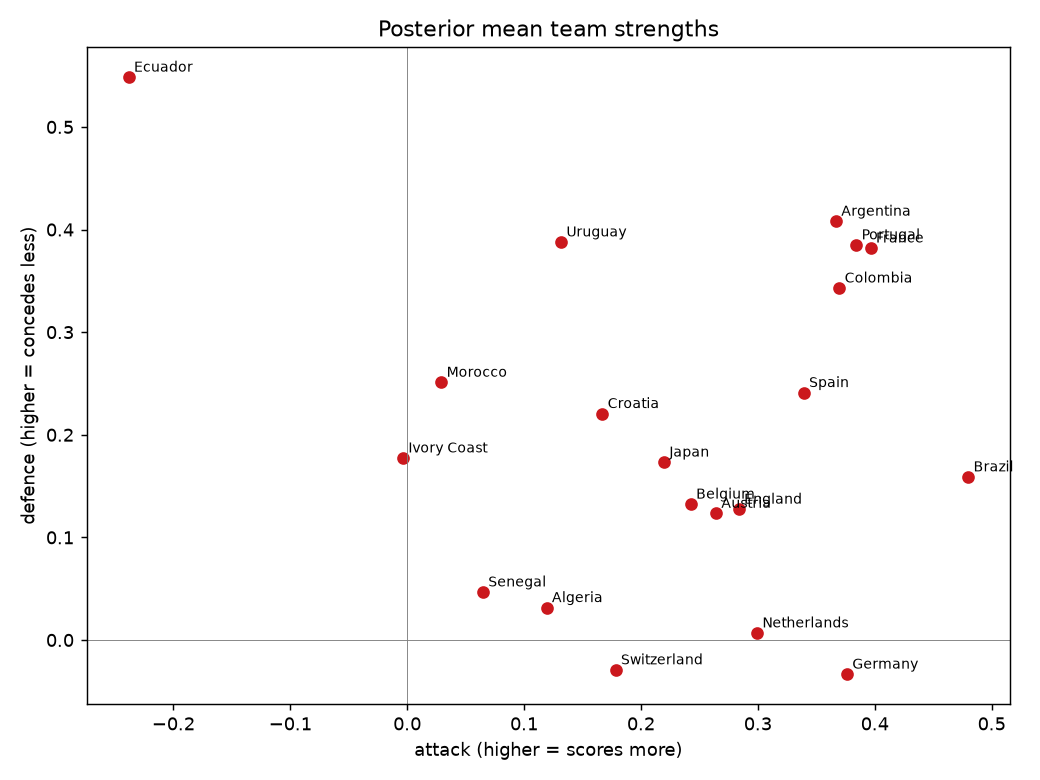
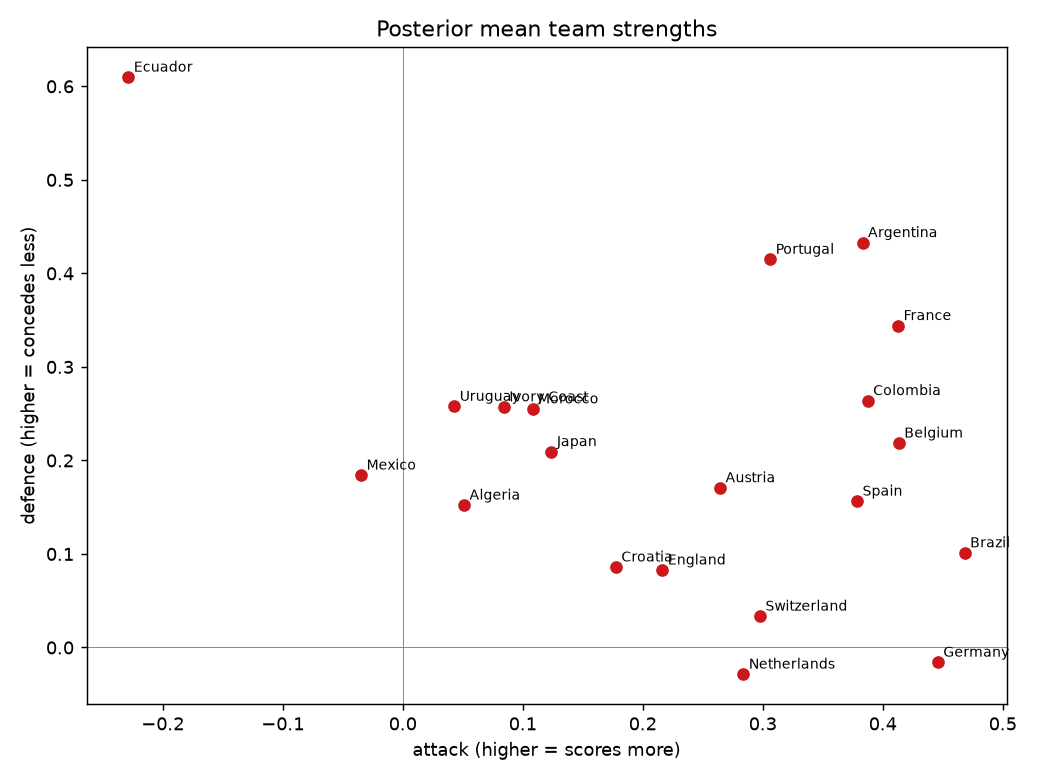
Add recency-weighted likelihood; measure it on the scoreboard
- bayesian_score: recency_weights() (mean-normalized time decay) + weighted
  Poisson likelihood via Potential; fit() weights pass-through
- stage 19 now scores a Bayesian+recency variant -> small consistent RPS gain
  on full tournaments (2018 -0.0021, 2022 -0.0008), neutral on tiny 2026 sample
- stage 06 enables recency weighting (18-month half-life) for the live fit;
  Mexico's defence rating rises with its recent clean sheets
- recency-weights test; EVALUATION.md / tracker refreshed

diff --git a/src/wc2026/models/bayesian_score.py b/src/wc2026/models/bayesian_score.py
@@ -56,12 +56,30 @@ class FitResult:
     team_to_idx: dict[str, int]
 
 
+def recency_weights(dates, asof, half_life_days: float = 540.0) -> np.ndarray:
+    """Exponential time-decay weights (mean-normalized to 1).
+
+    Recent matches count more; mean-normalizing keeps the *total* likelihood
+    mass the same, so this re-weights toward current form rather than just
+    shrinking everything. half_life_days=540 ≈ 18 months.
+    """
+    age = (pd.Timestamp(asof) - pd.to_datetime(pd.Series(list(dates)))).dt.days
+    age = age.clip(lower=0).to_numpy()
+    w = 0.5 ** (age / half_life_days)
+    return w * (len(w) / w.sum())
+
+
 def build_model(
     matches: pd.DataFrame,
     teams: list[str],
     prior_strength: np.ndarray | None = None,
+    weights: np.ndarray | None = None,
 ) -> pm.Model:
-    """Construct the PyMC model. ``matches`` needs home/away team + goals."""
+    """Construct the PyMC model. ``matches`` needs home/away team + goals.
+
+    If ``weights`` (one per match) is given, the Poisson likelihood is
+    weighted — used for recency weighting (down-weight stale matches).
+    """
     team_to_idx = {t: i for i, t in enumerate(teams)}
     n_teams = len(teams)
 
@@ -106,10 +124,19 @@ def build_model(
         log_lambda_home = intercept + home_adv + att_eff[h_idx] - deff[a_idx]
         log_lambda_away = intercept + att_eff[a_idx] - deff[h_idx]
 
-        pm.Poisson("home_goals", mu=pm.math.exp(log_lambda_home),
-                   observed=hg, dims="match")
-        pm.Poisson("away_goals", mu=pm.math.exp(log_lambda_away),
-                   observed=ag, dims="match")
+        if weights is None:
+            pm.Poisson("home_goals", mu=pm.math.exp(log_lambda_home),
+                       observed=hg, dims="match")
+            pm.Poisson("away_goals", mu=pm.math.exp(log_lambda_away),
+                       observed=ag, dims="match")
+        else:
+            # Weighted likelihood: scale each match's log-prob by its recency
+            # weight (via Potential, since pm.Poisson takes no per-obs weights).
+            w = pm.Data("obs_weights", np.asarray(weights, float), dims="match")
+            lp_h = pm.logp(pm.Poisson.dist(mu=pm.math.exp(log_lambda_home)), hg)
+            lp_a = pm.logp(pm.Poisson.dist(mu=pm.math.exp(log_lambda_away)), ag)
+            pm.Potential("home_goals_w", pm.math.sum(w * lp_h))
+            pm.Potential("away_goals_w", pm.math.sum(w * lp_a))
 
     return model
 
@@ -122,9 +149,10 @@ def fit(
     tune: int = 1000,
     chains: int = 4,
     target_accept: float = 0.9,
+    weights: np.ndarray | None = None,
 ) -> FitResult:
     """Sample the posterior with NUTS and return inference data."""
-    model = build_model(matches, teams, prior_strength)
+    model = build_model(matches, teams, prior_strength, weights=weights)
     with model:
         idata = pm.sample(
             draws=draws,

diff --git a/scripts/19_evaluate.py b/scripts/19_evaluate.py
@@ -18,7 +18,7 @@ import pymc as pm
 
 from wc2026.config import ROOT, ensure_dirs
 from wc2026.data.sources import download_intl_results
-from wc2026.models.bayesian_score import build_model, predict_match
+from wc2026.models.bayesian_score import build_model, predict_match, recency_weights
 from wc2026.models.elo import BASE_RATING, HFA, _g_multiplier, _k_for, win_probability
 from wc2026.models.metrics import evaluate
 
@@ -63,11 +63,19 @@ def run_year(df: pd.DataFrame, year: int, start: str, end: str):
     elo = generic_elo(train)   # uses home_score/away_score — before the rename
     train_model = train.rename(columns={"home_score": "home_goals",
                                         "away_score": "away_goals"})
-    with build_model(train_model, teams, prior_strength=np.zeros(len(teams))):
-        idata = pm.sample(draws=800, tune=800, chains=2, cores=1,
-                          target_accept=0.9, progressbar=False, random_seed=7)
+    zeros = np.zeros(len(teams))
 
-    model_rows, elo_rows, naive_rows = [], [], []
+    def _fit(weights):
+        with build_model(train_model, teams, prior_strength=zeros, weights=weights):
+            return pm.sample(draws=800, tune=800, chains=2, cores=1,
+                             target_accept=0.9, progressbar=False, random_seed=7)
+
+    idata = _fit(None)
+    # Recency-weighted variant: down-weight stale matches (18-month half-life).
+    w = recency_weights(train_model["date"], cutoff, half_life_days=540)
+    idata_rec = _fit(w)
+
+    model_rows, rec_rows, elo_rows, naive_rows = [], [], [], []
     for m in wc.itertuples():
         h, a = m.home_team, m.away_team
         neutral = bool(getattr(m, "neutral", True))
@@ -75,8 +83,9 @@ def run_year(df: pd.DataFrame, year: int, start: str, end: str):
         result = "H" if gh > ga else "A" if ga > gh else "D"
         actual_total = gh + ga
 
-        p = predict_match(idata, teams, h, a, neutral=neutral)
-        model_rows.append({"p_H": p["p_home_win"], "p_D": p["p_draw"],
+        for src, bucket in ((idata, model_rows), (idata_rec, rec_rows)):
+            p = predict_match(src, teams, h, a, neutral=neutral)
+            bucket.append({"p_H": p["p_home_win"], "p_D": p["p_draw"],
                            "p_A": p["p_away_win"], "result": result,
                            "pred_total": p["exp_goals_home"] + p["exp_goals_away"],
                            "actual_total": actual_total})
@@ -86,7 +95,11 @@ def run_year(df: pd.DataFrame, year: int, start: str, end: str):
                            "result": result})
 
     return {"year": year, "Bayesian": evaluate(model_rows),
+            "Bayesian+recency": evaluate(rec_rows),
             "Elo": evaluate(elo_rows), "Naive": evaluate(naive_rows)}
+
+
+MODELS = ("Bayesian", "Bayesian+recency", "Elo", "Naive")
 
 
 def main() -> None:
@@ -107,11 +120,11 @@ def main() -> None:
 def _console(results) -> str:
     lines = []
     for r in results:
-        lines.append(f"[{r['year']}] n={r['Bayesian']['n']}  "
-                     f"RPS  Bayes {r['Bayesian']['RPS']} | Elo {r['Elo']['RPS']} | "
-                     f"Naive {r['Naive']['RPS']}   "
-                     f"(hit {r['Bayesian']['hit_rate']}/{r['Elo']['hit_rate']}/"
-                     f"{r['Naive']['hit_rate']})")
+        d = r["Bayesian+recency"]["RPS"] - r["Bayesian"]["RPS"]
+        lines.append(f"[{r['year']}] n={r['Bayesian']['n']}  RPS  "
+                     f"Bayes {r['Bayesian']['RPS']} | +recency "
+                     f"{r['Bayesian+recency']['RPS']} ({d:+.4f}) | "
+                     f"Elo {r['Elo']['RPS']} | Naive {r['Naive']['RPS']}")
     return "\n".join(lines)
 
 
@@ -128,7 +141,7 @@ def _render(results) -> str:
         L.append(f"## {r['year']} World Cup  (n={r['Bayesian']['n']} matches)\n")
         L.append("| Model | RPS ↓ | log-loss ↓ | Brier ↓ | hit-rate ↑ | goals MAE ↓ |")
         L.append("|---|---|---|---|---|---|")
-        for name in ("Bayesian", "Elo", "Naive"):
+        for name in MODELS:
             m = r[name]
             L.append(f"| {name} | {m['RPS']} | {m['log_loss']} | {m['Brier']} | "
                      f"{m['hit_rate']} | {m.get('goals_MAE', '—')} |")

diff --git a/tests/test_smoke.py b/tests/test_smoke.py
@@ -260,6 +260,18 @@ def test_llm_extract_fallback():
     assert abs(momentum_from_features(f)) <= 0.10
 
 
+def test_recency_weights():
+    """Recent matches weigh more; weights mean-normalize to 1."""
+    import numpy as np
+
+    from wc2026.models.bayesian_score import recency_weights
+
+    dates = ["2022-01-01", "2024-01-01", "2026-06-01"]
+    w = recency_weights(dates, asof="2026-06-19", half_life_days=540)
+    assert w[2] > w[1] > w[0]            # newest heaviest
+    assert abs(w.mean() - 1.0) < 1e-9    # mean-normalized
+
+
 def test_metrics():
     """Proper scoring rules behave: confident-correct beats confident-wrong."""
     from wc2026.models.metrics import evaluate, log_loss, predicted_result, rps

diff --git a/scripts/06_fit_real.py b/scripts/06_fit_real.py
@@ -29,8 +29,13 @@ def main() -> None:
     prior = (team_feat.set_index("team")["prior_strength"]
              .reindex(teams).fillna(0.0).to_numpy())
 
-    print("Sampling posterior on real data (NUTS)...")
-    result = fit(matches, teams, prior_strength=prior, draws=1000, tune=1000, chains=4)
+    # Recency weighting: recent matches (incl. tournament games) count more.
+    from wc2026.models.bayesian_score import recency_weights
+    weights = recency_weights(matches["date"], "2026-06-19", half_life_days=540)
+
+    print("Sampling posterior on real data (NUTS, recency-weighted)...")
+    result = fit(matches, teams, prior_strength=prior, draws=1000, tune=1000,
+                 chains=4, weights=weights)
     result.idata.to_netcdf(ARTIFACTS / "posterior_real.nc")
 
     summary = az.summary(result.idata,

diff --git a/docs/CHAMPION_TRACKER.md b/docs/CHAMPION_TRACKER.md
@@ -15,45 +15,45 @@ Both come from one model: goals are the primitive; the winner is a simulation ov
 
 | Team | Quarter | Semi | Final | **Champion** |
 |---|---|---|---|---|
-| Argentina | 48% | 28% | 17% | **12%** |
-| France | 47% | 26% | 15% | **10%** |
-| Colombia | 45% | 23% | 12% | **7%** |
-| Portugal | 39% | 20% | 11% | **7%** |
-| Brazil | 43% | 22% | 11% | **7%** |
-| Germany | 38% | 20% | 10% | **5%** |
-| Spain | 33% | 17% | 9% | **5%** |
-| Austria | 36% | 19% | 9% | **5%** |
-| England | 36% | 18% | 9% | **4%** |
-| Belgium | 35% | 18% | 9% | **4%** |
-| Uruguay | 27% | 15% | 8% | **4%** |
-| Japan | 28% | 14% | 7% | **3%** |
+| Argentina | 50% | 29% | 18% | **12%** |
+| Belgium | 45% | 24% | 13% | **9%** |
+| France | 45% | 23% | 12% | **8%** |
+| Colombia | 41% | 22% | 12% | **7%** |
+| Portugal | 38% | 20% | 11% | **6%** |
+| Germany | 40% | 21% | 11% | **6%** |
+| Brazil | 39% | 20% | 10% | **6%** |
+| Austria | 37% | 18% | 10% | **5%** |
+| Spain | 33% | 18% | 9% | **4%** |
+| Switzerland | 31% | 17% | 9% | **4%** |
+| Ivory Coast | 31% | 16% | 8% | **4%** |
+| England | 29% | 15% | 7% | **3%** |
 
 ## Next games — predicted goals
 
 | Date | Fixture | Pred goals (xG) | Likely | P(H/D/A) | Home form |
 |---|---|---|---|---|---|
-| 2026-06-20 | Netherlands v Sweden | 2.1-1.3 | 1-1 | 55%/21%/24% | steady |
-| 2026-06-20 | Tunisia v Japan | 0.7-1.4 | 0-1 | 19%/28%/53% | cold |
-| 2026-06-20 | Germany v Ivory Coast | 1.6-1.3 | 1-1 | 46%/24%/30% | red-hot |
-| 2026-06-20 | Ecuador v Curaçao | 1.9-0.5 | 1-0 | 70%/21%/9% | steady |
-| 2026-06-21 | Belgium v Iran | 1.9-0.8 | 1-0 | 64%/21%/15% | red-hot |
-| 2026-06-21 | New Zealand v Egypt | 0.7-1.3 | 0-1 | 19%/29%/52% | cold |
-| 2026-06-21 | Spain v Saudi Arabia | 1.4-0.5 | 1-0 | 62%/27%/12% | steady |
-| 2026-06-21 | Uruguay v Cape Verde | 1.3-0.7 | 1-0 | 51%/29%/20% | steady |
-| 2026-06-22 | France v Iraq | 2.1-0.4 | 1-0 | 76%/18%/6% | rising |
-| 2026-06-22 | Norway v Senegal | 1.3-1.3 | 1-1 | 39%/26%/35% | rising |
+| 2026-06-20 | Netherlands v Sweden | 2.2-1.5 | 2-1 | 53%/20%/27% | steady |
+| 2026-06-20 | Tunisia v Japan | 0.6-1.4 | 0-1 | 16%/28%/56% | cold |
+| 2026-06-20 | Germany v Ivory Coast | 1.6-1.4 | 1-1 | 44%/24%/33% | red-hot |
+| 2026-06-20 | Ecuador v Curaçao | 2.1-0.5 | 1-0 | 73%/18%/8% | steady |
+| 2026-06-21 | Belgium v Iran | 2.2-0.7 | 2-0 | 72%/18%/11% | red-hot |
+| 2026-06-21 | New Zealand v Egypt | 0.6-1.4 | 0-1 | 18%/28%/54% | cold |
+| 2026-06-21 | Spain v Saudi Arabia | 1.6-0.5 | 1-0 | 65%/24%/11% | steady |
+| 2026-06-21 | Uruguay v Cape Verde | 1.0-0.8 | 0-0 | 40%/33%/27% | steady |
+| 2026-06-22 | France v Iraq | 2.3-0.4 | 2-0 | 79%/16%/6% | rising |
+| 2026-06-22 | Norway v Senegal | 1.5-1.2 | 1-1 | 45%/25%/30% | rising |
 | 2026-06-22 | Argentina v Austria | 1.7-1.1 | 1-1 | 50%/24%/26% | red-hot |
-| 2026-06-22 | Jordan v Algeria | 0.8-1.9 | 0-1 | 15%/21%/64% | dipping |
-| 2026-06-23 | Portugal v Uzbekistan | 1.9-0.5 | 1-0 | 70%/20%/10% | rising |
-| 2026-06-23 | Colombia v Congo DR | 1.7-0.7 | 1-0 | 60%/24%/16% | rising |
-| 2026-06-23 | England v Ghana | 2.1-0.7 | 1-0 | 68%/20%/12% | rising |
-| 2026-06-23 | Panama v Croatia | 0.7-1.6 | 0-1 | 17%/25%/58% | dipping |
-| 2026-06-24 | Morocco v Haiti | 1.7-0.7 | 1-0 | 60%/24%/16% | rising |
-| 2026-06-24 | Bosnia-Herzegovina v Qatar | 1.5-1.1 | 1-1 | 46%/26%/29% | dipping |
-| 2026-06-24 | Scotland v Brazil | 1.0-2.2 | 0-2 | 17%/20%/64% | rising |
-| 2026-06-24 | South Africa v South Korea | 1.1-0.9 | 1-0 | 39%/31%/31% | dipping |
-| 2026-06-24 | Mexico v Czechia | 1.8-0.9 | 1-0 | 57%/23%/19% | rising |
-| 2026-06-24 | Canada v Switzerland | 1.5-1.3 | 1-1 | 42%/25%/33% | red-hot |
+| 2026-06-22 | Jordan v Algeria | 0.7-1.8 | 0-1 | 14%/23%/63% | dipping |
+| 2026-06-23 | Portugal v Uzbekistan | 1.8-0.5 | 1-0 | 68%/22%/10% | rising |
+| 2026-06-23 | Colombia v Congo DR | 1.6-0.8 | 1-0 | 57%/25%/18% | rising |
+| 2026-06-23 | England v Ghana | 1.9-0.7 | 1-0 | 66%/21%/13% | rising |
+| 2026-06-23 | Panama v Croatia | 0.8-1.6 | 0-1 | 19%/25%/56% | dipping |
+| 2026-06-24 | Morocco v Haiti | 1.8-0.7 | 1-0 | 62%/23%/15% | rising |
+| 2026-06-24 | Bosnia-Herzegovina v Qatar | 1.7-1.1 | 1-0 | 52%/24%/24% | dipping |
+| 2026-06-24 | Scotland v Brazil | 1.0-2.0 | 0-1 | 19%/22%/59% | rising |
+| 2026-06-24 | South Africa v South Korea | 0.9-0.8 | 0-0 | 37%/33%/30% | dipping |
+| 2026-06-24 | Mexico v Czechia | 1.9-0.8 | 1-0 | 62%/22%/16% | rising |
+| 2026-06-24 | Canada v Switzerland | 1.4-1.3 | 1-1 | 38%/26%/36% | red-hot |
 
 ## Current group standings (played)
 

diff --git a/docs/EVALUATION.md b/docs/EVALUATION.md
@@ -9,6 +9,7 @@ _Bayesian goals model (no player prior) fit on the 4 years before each tournamen
 | Model | RPS ↓ | log-loss ↓ | Brier ↓ | hit-rate ↑ | goals MAE ↓ |
 |---|---|---|---|---|---|
 | Bayesian | 0.2132 | 1.0027 | 0.5994 | 0.594 | 1.175 |
+| Bayesian+recency | 0.2111 | 0.9993 | 0.5975 | 0.547 | 1.182 |
 | Elo | 0.2153 | 1.0027 | 0.5991 | 0.531 | — |
 | Naive | 0.2494 | 1.095 | 0.6651 | 0.391 | — |
 
@@ -17,6 +18,7 @@ _Bayesian goals model (no player prior) fit on the 4 years before each tournamen
 | Model | RPS ↓ | log-loss ↓ | Brier ↓ | hit-rate ↑ | goals MAE ↓ |
 |---|---|---|---|---|---|
 | Bayesian | 0.2161 | 1.0326 | 0.6168 | 0.5 | 1.488 |
+| Bayesian+recency | 0.2153 | 1.0329 | 0.615 | 0.516 | 1.505 |
 | Elo | 0.2174 | 1.0269 | 0.6154 | 0.438 | — |
 | Naive | 0.2345 | 1.0739 | 0.6497 | 0.438 | — |
 
@@ -25,6 +27,7 @@ _Bayesian goals model (no player prior) fit on the 4 years before each tournamen
 | Model | RPS ↓ | log-loss ↓ | Brier ↓ | hit-rate ↑ | goals MAE ↓ |
 |---|---|---|---|---|---|
 | Bayesian | 0.1795 | 0.9881 | 0.5951 | 0.5 | 1.515 |
+| Bayesian+recency | 0.1799 | 0.9906 | 0.598 | 0.464 | 1.532 |
 | Elo | 0.2008 | 1.0728 | 0.6507 | 0.464 | — |
 | Naive | 0.1908 | 1.0318 | 0.6188 | 0.536 | — |
 